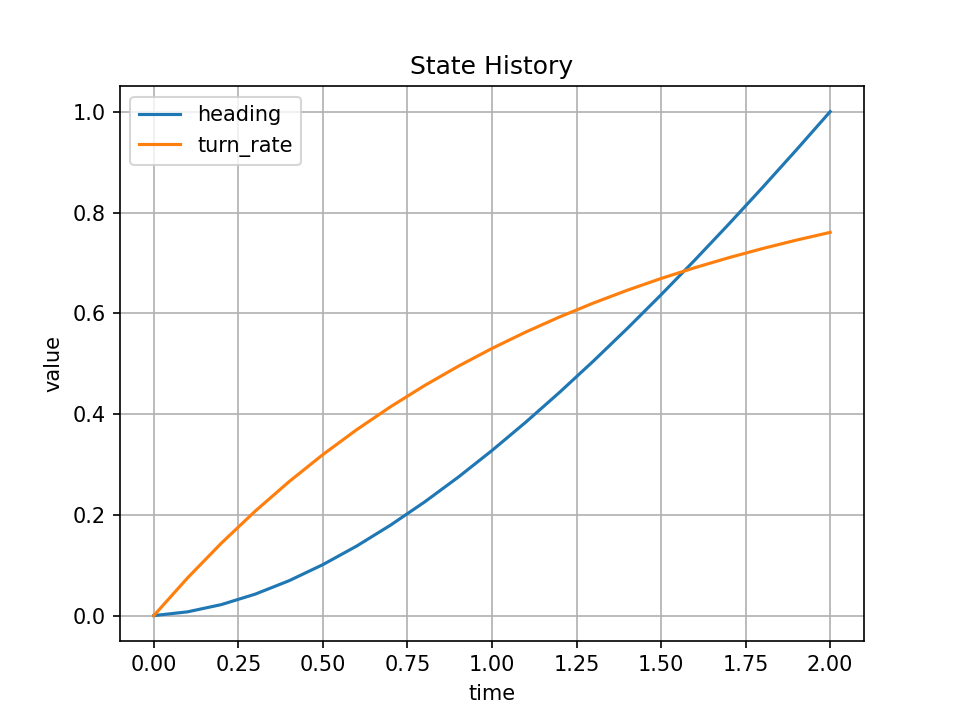
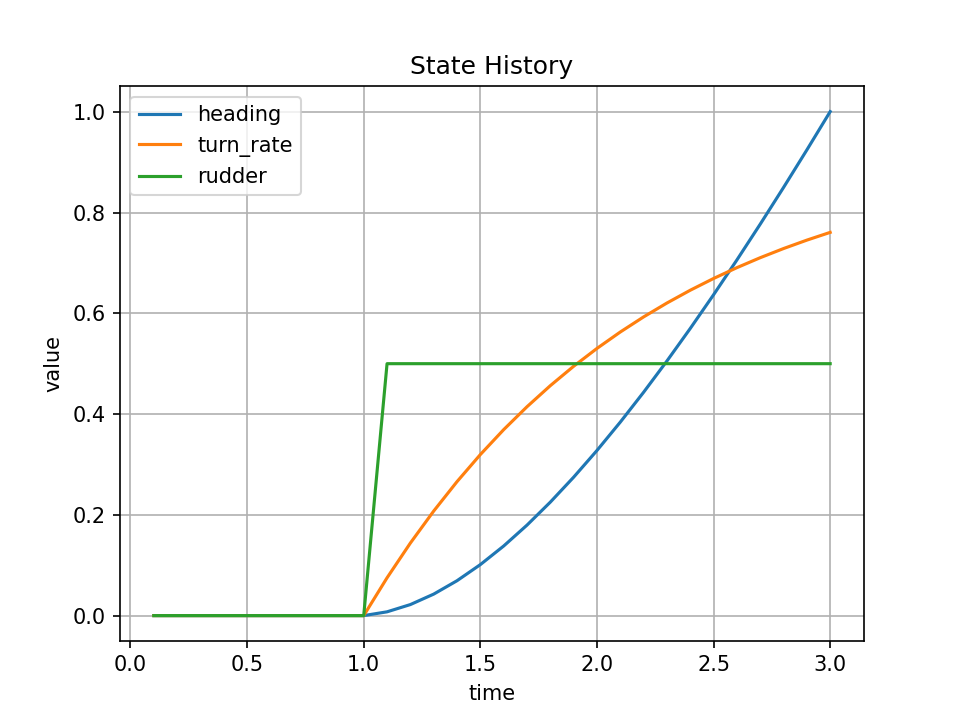
Add stepwise rudder control and history plots

diff --git a/minisim/render/plot2d.py b/minisim/render/plot2d.py
@@ -37,7 +37,7 @@ def plot_state_history(history):
 	plt.figure()
 	plt.plot(ts, headings, label="heading")
 	plt.plot(ts, turn_rates, label="turn_rate")
-	plt.plot(ts, rudders, lable="rudder")
+	plt.plot(ts, rudders, label="rudder")
 	plt.xlabel("time")
 	plt.ylabel("value")
 	plt.title("State History")
